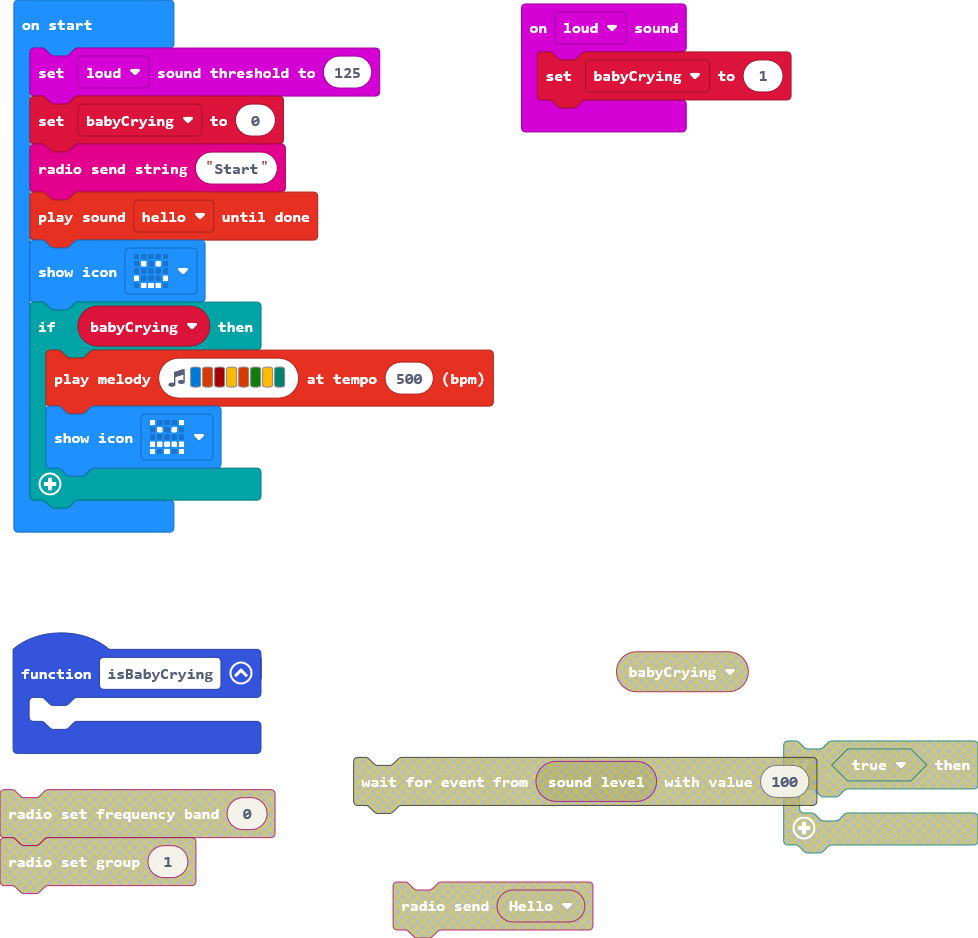
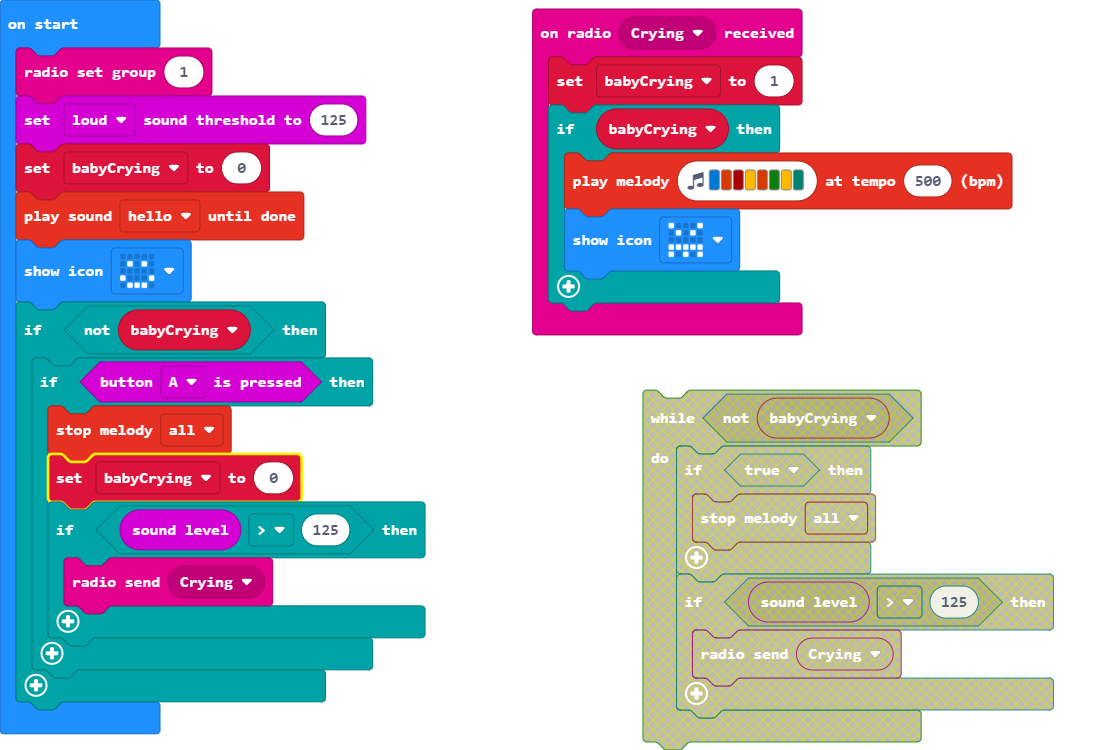
Current Changes 2:10pm

diff --git a/main.ts b/main.ts
@@ -1,20 +1,27 @@
 enum RadioMessage {
     message1 = 49434,
-    Hello = 49337
+    Hello = 49337,
+    Crying = 58844
 }
-function isBabyCrying () {
-	
-}
-input.onSound(DetectedSound.Loud, function () {
+radio.onReceivedMessage(RadioMessage.Crying, function () {
     babyCrying = 1
+    if (babyCrying) {
+        music.playMelody("E B C5 A B G A F ", 500)
+        basic.showIcon(IconNames.Angry)
+    }
 })
 let babyCrying = 0
+radio.setGroup(1)
 input.setSoundThreshold(SoundThreshold.Loud, 125)
 babyCrying = 0
-radio.sendString("Start")
 soundExpression.hello.playUntilDone()
 basic.showIcon(IconNames.Happy)
-if (babyCrying) {
-    music.playMelody("E B C5 A B G A F ", 500)
-    basic.showIcon(IconNames.Angry)
+if (!(babyCrying)) {
+    if (input.buttonIsPressed(Button.A)) {
+        music.stopMelody(MelodyStopOptions.All)
+        babyCrying = 0
+        if (input.soundLevel() > 125) {
+            radio.sendMessage(RadioMessage.Crying)
+        }
+    }
 }
